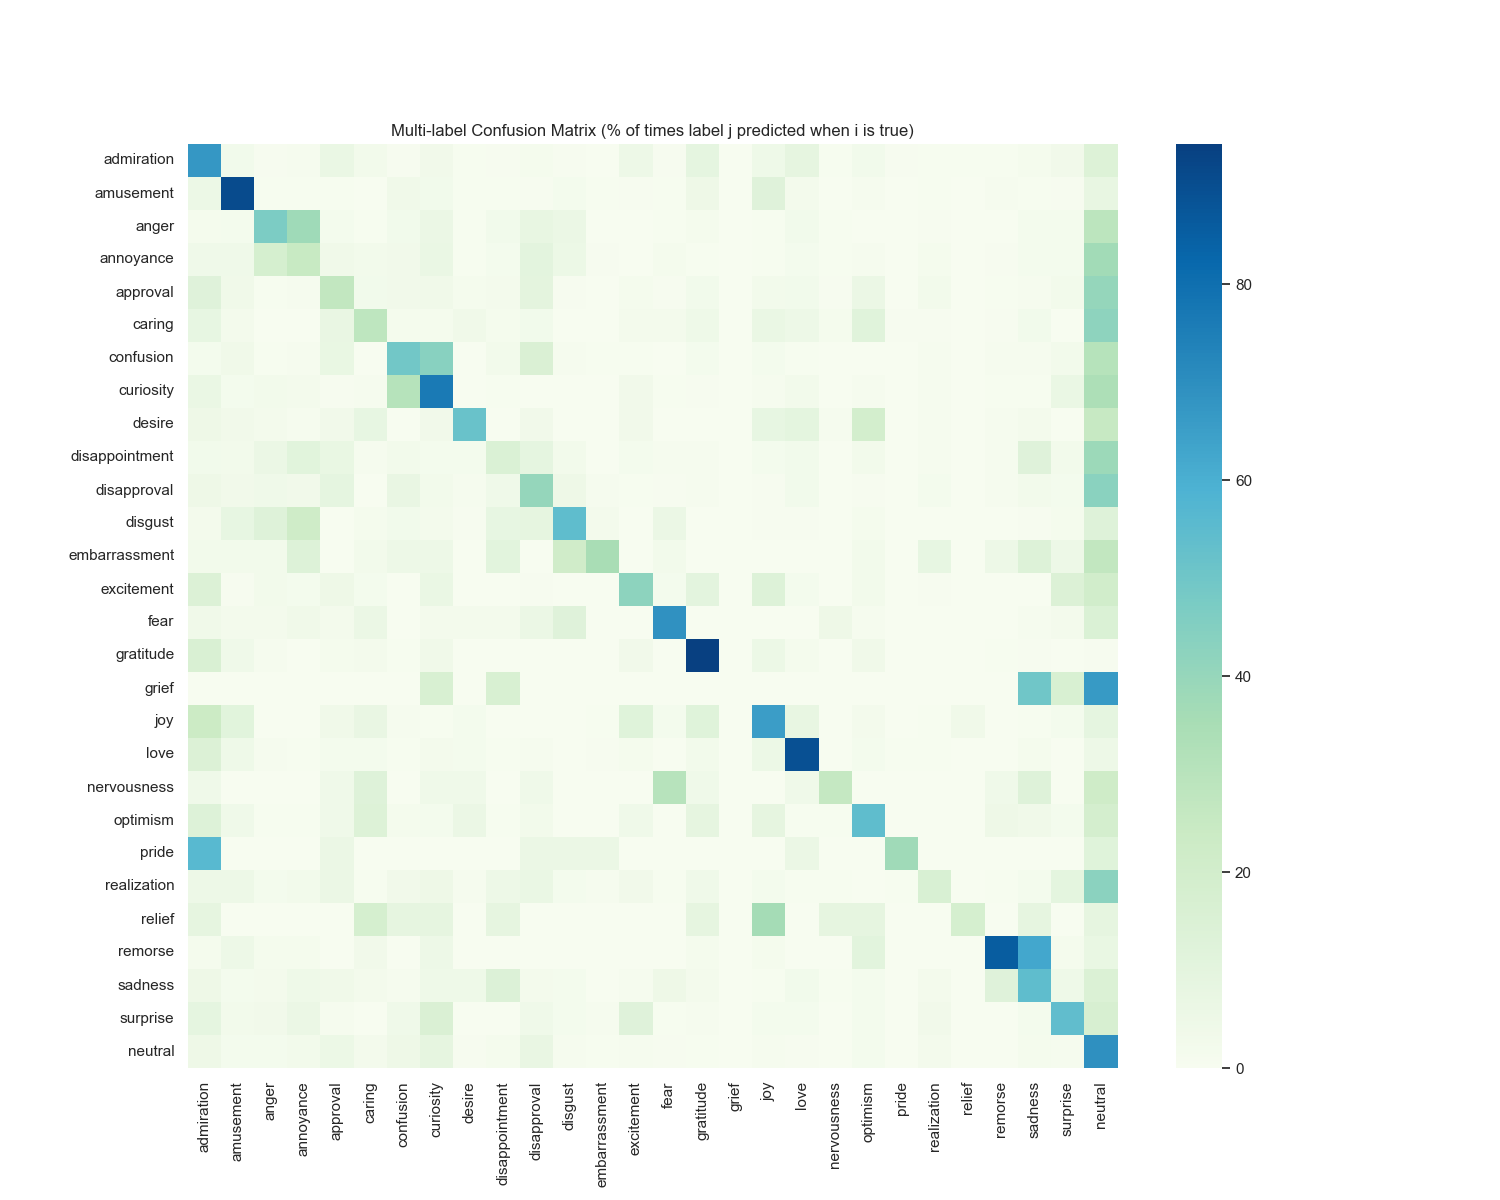
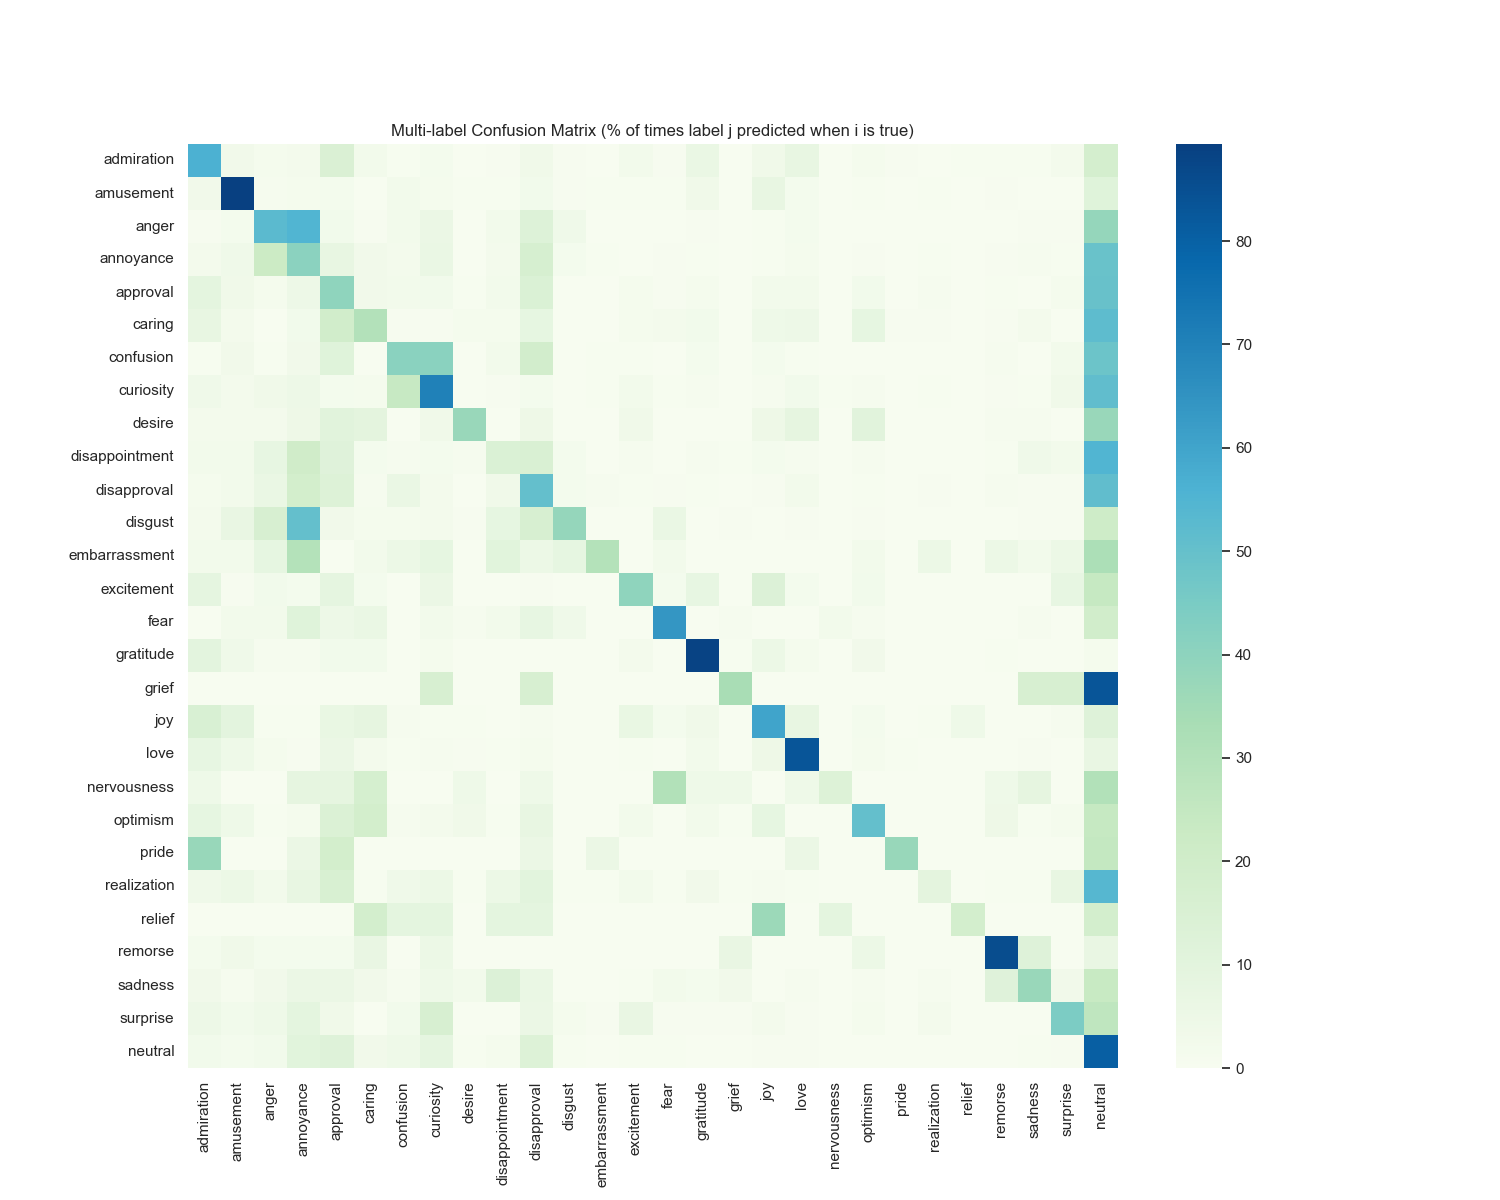
add optimized preds

diff --git a/README.md b/README.md
@@ -13,10 +13,10 @@ EmCoder is optimized for **MC Dropout inference**.
 EmCoder achieves competitive F1-scores while being ~35% smaller than RoBERTa-base and ~45% smaller than ModernBERT, offering a superior efficiency-to-uncertainty ratio.
 | Model | Precision | Recall | F1-Score | Params |
 | :--- | :--- | :--- | :--- | :--- |
-| **EmCoder** | **0.408** | **0.495** | **0.440** | **82.1M** |
+| **EmCoder** | **0.464** | **0.478** | **0.447** | **82.1M** |
 | Google BERT (Original) | 0.400 | 0.630 | 0.460 | 110M |
 | RoBERTa-base | 0.575 | 0.396 | 0.450 | 125M |
-| ModernBERT-base | 0.652 | 0.443 | 0.500 | 149M |
+| ModernBERT-base | 0.583 | 0.535 | 0.550 | 149M |
 
 
 ## How to use
@@ -139,6 +139,43 @@ $$
 
 
 ## Performance
+**Using `thresholds.json` optimization for binarizing and filtering (uncertainty) predictions**
+|                |   precision |   recall |   f1-score |   support |
+|:---------------|------------:|---------:|-----------:|----------:|
+| admiration     |       0.635 |    0.565 |      0.598 |       504 |
+| amusement      |       0.713 |    0.894 |      0.793 |       264 |
+| anger          |       0.367 |    0.525 |      0.432 |       198 |
+| annoyance      |       0.215 |    0.406 |      0.281 |       320 |
+| approval       |       0.226 |    0.396 |      0.288 |       351 |
+| caring         |       0.199 |    0.304 |      0.24  |       135 |
+| confusion      |       0.268 |    0.412 |      0.325 |       153 |
+| curiosity      |       0.423 |    0.704 |      0.528 |       284 |
+| desire         |       0.585 |    0.373 |      0.456 |        83 |
+| disappointment |       0.176 |    0.146 |      0.159 |       151 |
+| disapproval    |       0.222 |    0.506 |      0.309 |       267 |
+| disgust        |       0.56  |    0.382 |      0.454 |       123 |
+| embarrassment  |       0.423 |    0.297 |      0.349 |        37 |
+| excitement     |       0.423 |    0.398 |      0.41  |       103 |
+| fear           |       0.538 |    0.641 |      0.585 |        78 |
+| gratitude      |       0.943 |    0.886 |      0.914 |       352 |
+| grief          |       0.111 |    0.333 |      0.167 |         6 |
+| joy            |       0.503 |    0.602 |      0.548 |       161 |
+| love           |       0.75  |    0.832 |      0.789 |       238 |
+| nervousness    |       0.429 |    0.13  |      0.2   |        23 |
+| optimism       |       0.681 |    0.505 |      0.58  |       186 |
+| pride          |       0.75  |    0.375 |      0.5   |        16 |
+| realization    |       0.4   |    0.097 |      0.156 |       145 |
+| relief         |       0.2   |    0.182 |      0.19  |        11 |
+| remorse        |       0.527 |    0.857 |      0.653 |        56 |
+| sadness        |       0.624 |    0.372 |      0.466 |       156 |
+| surprise       |       0.534 |    0.447 |      0.486 |       141 |
+| neutral        |       0.567 |    0.804 |      0.665 |      1787 |
+| micro avg      |       0.476 |    0.611 |      0.535 |      6329 |
+| macro avg      |       0.464 |    0.478 |      0.447 |      6329 |
+| weighted avg   |       0.511 |    0.611 |      0.542 |      6329 |
+| samples avg    |       0.524 |    0.637 |      0.55  |      6329 |  
+
+
 **Using threshold of 0.5 for binarizing predictions**
 |                |   precision |   recall |   f1-score |   support |
 |:---------------|------------:|---------:|-----------:|----------:|
